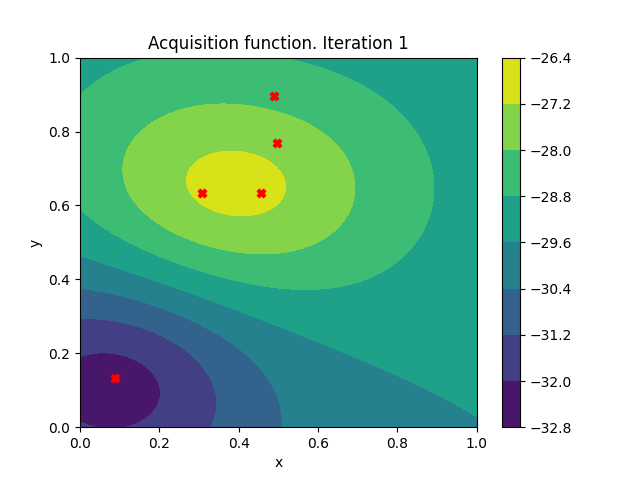
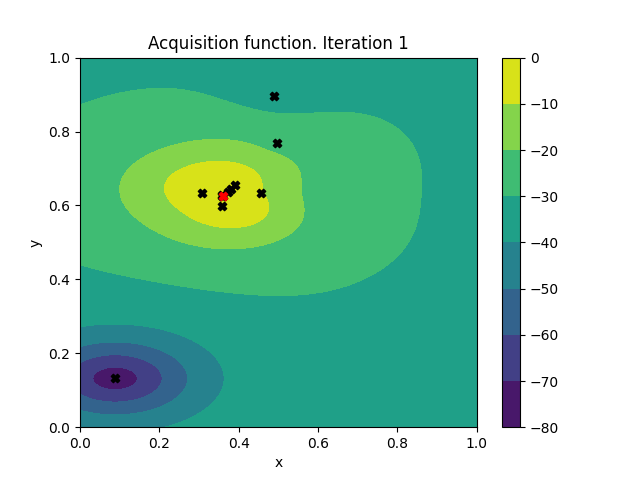
Visualization, pending interpretation

diff --git a/experiments/toy/vanilla_BO/bayes_opt_toy.py b/experiments/toy/vanilla_BO/bayes_opt_toy.py
@@ -229,7 +229,8 @@ def plot_acq_fun_model_posterior(acq_fun, obs_input, model, bounds, fun_name, it
     ax.set_title('Objective function. Iteration ' + str(iteration))
     ax.set_xlabel('x')
     ax.set_ylabel('y')
-    plt.scatter(obs_input[:,0], obs_input[:,1], color="red", marker="X")
+    plt.scatter(obs_input[:,0], obs_input[:,1], color="black", marker="X")
+    plt.scatter(obs_input[len(obs_input)-1,0], obs_input[len(obs_input)-1,1], color="red", marker="X")
     plt.savefig('./images/obj_fun_' + str(iteration) + '.png')
     plt.show()
     plt.clf()
@@ -240,7 +241,8 @@ def plot_acq_fun_model_posterior(acq_fun, obs_input, model, bounds, fun_name, it
     ax.set_title('Mean model posterior. Iteration ' + str(iteration))
     ax.set_xlabel('x')
     ax.set_ylabel('y')
-    plt.scatter(obs_input[:,0], obs_input[:,1], color="red", marker="X")
+    plt.scatter(obs_input[:,0], obs_input[:,1], color="black", marker="X")
+    plt.scatter(obs_input[len(obs_input)-1,0], obs_input[len(obs_input)-1,1], color="red", marker="X")
     plt.savefig('./images/mean_model_posterior_' + str(iteration) + '.png')
     plt.show()
     plt.clf()
@@ -252,14 +254,12 @@ def plot_acq_fun_model_posterior(acq_fun, obs_input, model, bounds, fun_name, it
     ax.set_title('Acquisition function. Iteration ' + str(iteration))
     ax.set_xlabel('x')
     ax.set_ylabel('y')
-    plt.scatter(obs_input[:,0], obs_input[:,1], color="red", marker="X")
+    plt.scatter(obs_input[:,0], obs_input[:,1], color="black", marker="X")
+    plt.scatter(obs_input[len(obs_input)-1,0], obs_input[len(obs_input)-1,1], color="red", marker="X")
     plt.savefig('./images/acq_fun_' + str(iteration) + '.png')
     plt.show()
     plt.clf()
     plt.close()
-
-    import pdb; pdb.set_trace();
-
 
 def perform_BO_iteration(X, Y, name_obj_fun, bounds, seed, normalize=False, wrapped=False, penalize=False, apply_simplex=False, plot_acq_model=True):
 
@@ -282,7 +282,7 @@ def perform_BO_iteration(X, Y, name_obj_fun, bounds, seed, normalize=False, wrap
         fit_gpytorch_model(mll)
         gpytorch.settings.cholesky_jitter._global_float_value = 1e-06 #Restoring.
     
-    UCB = UpperConfidenceBound(gp, beta=0.1, maximize=False)
+    UCB = UpperConfidenceBound(gp, beta=0.2, maximize=False)
     bounds_cube = torch.stack([torch.zeros(X.shape[1]), torch.ones(X.shape[1])])
     if plot_acq_model:
         plot_acq_fun_model_posterior(UCB, X, gp, bounds, name_obj_fun, seed+1)
@@ -342,7 +342,7 @@ def perform_BO_experiment(seed : int, initial_design_size: int, budget: int, nam
     torch.random.manual_seed(seed)
     X, Y = get_initial_results(initial_design_size, name_obj_fun, bounds)
     for i in range(budget):
-        X, Y = perform_BO_iteration(X, Y, name_obj_fun, bounds, seed)
+        X, Y = perform_BO_iteration(X, Y, name_obj_fun, bounds, i)
 
     return Y
 
@@ -362,7 +362,7 @@ if __name__ == '__main__' :
     #branin(torch.tensor([9.42478, 2.475]))
     total_exps = 1
     initial_design_size = 5
-    budget = 2
+    budget = 20
     n_methods = 5
     name_obj_fun = 'branin'
     bounds = torch.stack([torch.tensor([-5,0]), torch.tensor([10,15])])
